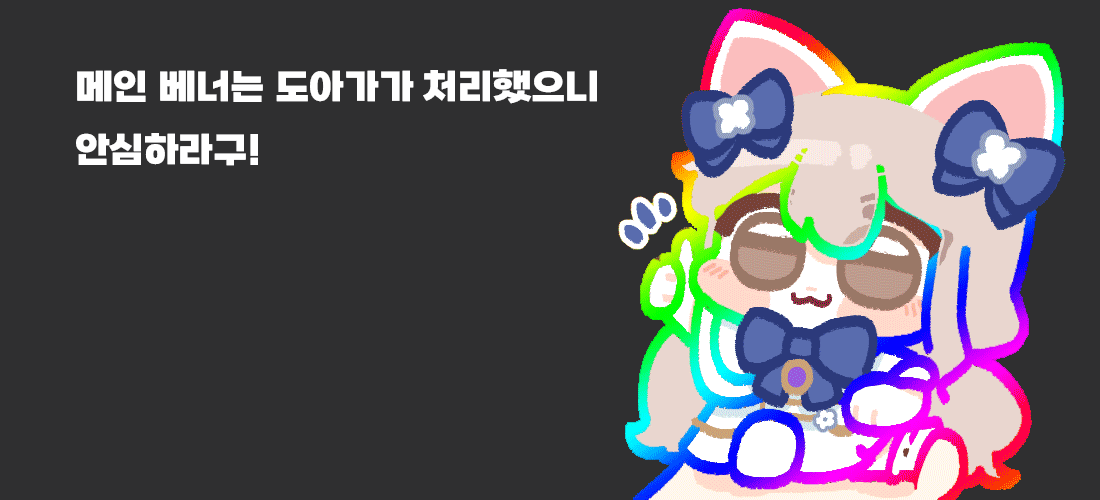
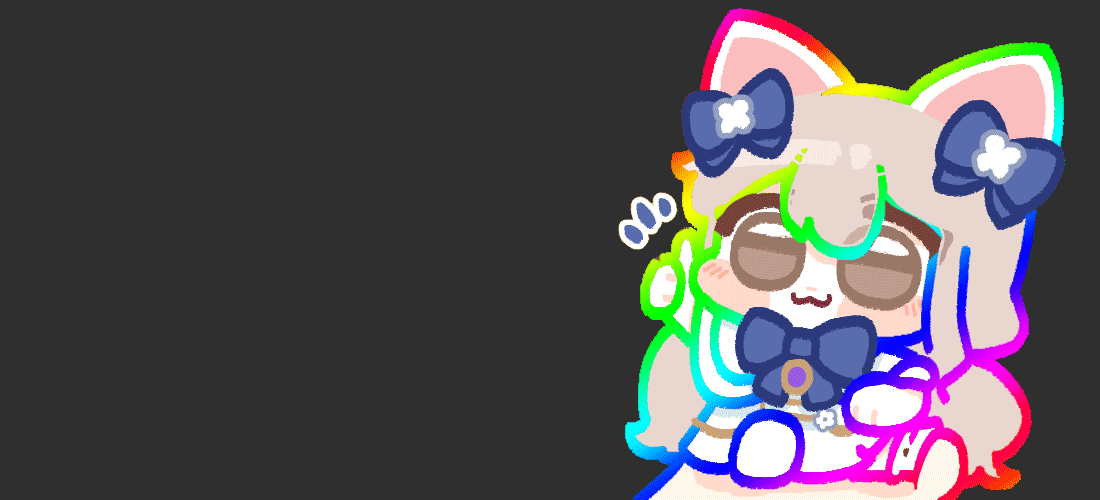
게시판 관련 UI 수정 및 메인 페이지 디자인 수정

Changed region(s): [[0.0618, 0.12, 0.5564, 0.21], [0.0618, 0.27, 0.2473, 0.33]]

diff --git a/src/pages/Main copy.jsx b/src/pages/Main copy.jsx
@@ -1,0 +1,129 @@
+import React from 'react';
+import styled from "styled-components";
+import { NavLink, useNavigate } from 'react-router-dom';
+import SidebarItem from '../Component/NavItem';
+import sampleimg from "../images/samplebanner.png";
+
+const BodyContent = styled.div`
+  width: 100%;
+  display: flex;
+  flex-direction: column;
+`
+
+const Menu = styled.div`
+  margin: auto;
+  display: flex;
+  flex-direction: row;
+`
+
+const Testdiv = styled.div`
+  height: 500px;
+`
+
+const Banner = styled.div`
+  width: 100%;
+  height: 100%;
+  background-size: cover;
+  background-position: center;
+  margin: 20px auto;
+  background-image: url(${sampleimg});
+  display: flex;
+  flex-direction: column;
+  justify-content: center;
+  align-items: flex-start;
+  padding: 20px;
+  color: white;
+  position: relative;
+
+  &::before,
+  &::after {
+    content: "";
+    position: absolute;
+    top: 0;
+    bottom: 0;
+    width: 20px;
+    background-color: #2f2f30;
+    z-index: -1;
+  }
+
+  &::before {
+    left: -20px;
+  }
+
+  &::after {
+    right: -20px;
+  }
+`
+
+const Title = styled.h1`
+  font-size: 64px;
+  margin-bottom: 10px;
+`
+
+const Description = styled.p`
+  font-size: 24px;
+  margin-bottom: 20px;
+`
+
+const Button = styled.button`
+  padding: 10px 20px;
+  background-color: #f0f0f0;
+  color: 333;
+  border: none;
+  border-radius: 5px;
+  cursor: pointer;
+  transition: background-color 0.3s ease;
+
+  &:hover {
+    color: white;
+    background-color: #555;
+  }
+`
+
+const Main = () => {
+  const navigate = useNavigate();
+  const menus = [
+    { name: "게시판", path: "/board" },
+    { name: "로그인", path: "/login" },
+    { name: "회원가입", path: "/signup" },
+    { name: "404 페이지", path: "/*" }
+  ];
+
+  const handleCreateBoardClick = () => {
+    navigate(`/board`);
+  };
+
+  return (
+    <>
+      <BodyContent>
+        <Testdiv>
+          <Banner>
+            <Title>캡스톤디자인</Title>
+            <Description>메인페이지는 도아가가 처리했으니 안심하라구!</Description>
+            <Button onClick={handleCreateBoardClick}>게시판으로</Button>
+          </Banner>
+        </Testdiv>
+      </BodyContent>
+    </>
+  );
+};
+
+export default Main;
+
+	{/*
+        <Menu>
+          {menus.map((menu, index) => {
+            return (
+              <NavLink
+                exact
+                style={{ color: "Black", textDecoration: "none", margin: "10px" }}
+                to={menu.path}
+                key={index}
+                activeStyle={{ color: "black" }}
+              >
+                <SidebarItem menu={menu} />
+              </NavLink>
+            );
+          })}
+        </Menu>
+	*/}

diff --git a/src/pages/Main.jsx b/src/pages/Main.jsx
@@ -1,6 +1,6 @@
 import React from 'react';
 import styled from "styled-components";
-import { NavLink } from 'react-router-dom';
+import { NavLink, useNavigate } from 'react-router-dom';
 import SidebarItem from '../Component/NavItem';
 import sampleimg from "../images/samplebanner.png";
 
@@ -10,48 +10,82 @@ const BodyContent = styled.div`
   flex-direction: column;
 `
 
-const Menu = styled.div`
-  margin: auto;
-  display: flex;
-  flex-direction: row;
+const Title = styled.h1`
+  font-size: 64px;
+  margin-bottom: 10px;
 `
+
+const Description = styled.p`
+  font-size: 24px;
+  margin-bottom: 20px;
+`
+
+const Button = styled.button`
+  padding: 10px 20px;
+  background-color: #f0f0f0;
+  color: 333;
+  border: none;
+  border-radius: 5px;
+  cursor: pointer;
+  transition: background-color 0.3s ease;
+
+  &:hover {
+    color: white;
+    background-color: #555;
+  }
+`
+
 
 const Banner = styled.div`
   width: 100%;
-  height: 500px;
+  height: 100%;
   background-size: cover;
   background-position: center;
   margin: 20px auto;
   background-image: url(${sampleimg});
+  display: flex;
+  flex-direction: column;
+  justify-content: center;
+  align-items: flex-start;
+  padding: 20px;
+  color: white;
+  position: relative;
+
+  &::before,
+  &::after {
+    content: "";
+    position: absolute;
+    top: 0;
+    bottom: 0;
+    width: 20px;
+    background-color: #2f2f30;
+    z-index: -1;
+  }
+
+  &::before {
+    left: -20px;
+  }
+
+  &::after {
+    right: -20px;
+  }
 `
 
-const Main = (props) => {
-  const menus = [
-    { name: "게시판", path: "/board" },
-    { name: "로그인", path: "/login" },
-    { name: "회원가입", path: "/signup" },
-    { name: "404 페이지", path: "/*" }
-  ];
+const Main = () => {
+  const navigate = useNavigate();
+
+  const handleMoveBoardClick = () => {
+    navigate(`/board`);
+  };
 
   return (
     <>
       <BodyContent>
-        <Banner />
-        <Menu>
-          {menus.map((menu, index) => {
-            return (
-              <NavLink
-                exact
-                style={{ color: "Black", textDecoration: "none", margin: "10px" }}
-                to={menu.path}
-                key={index}
-                activeStyle={{ color: "black" }}
-              >
-                <SidebarItem menu={menu} />
-              </NavLink>
-            );
-          })}
-        </Menu>
+          <Banner>
+            <Title>캡스톤디자인</Title>
+            <Description>메인페이지는 도아가가 처리했으니 안심하라구!</Description>
+            <Button onClick={handleMoveBoardClick}>게시판으로</Button>
+          </Banner>
       </BodyContent>
     </>
   );

diff --git a/src/pages/Detail.jsx b/src/pages/Detail.jsx
@@ -17,15 +17,27 @@ const HeadContainer = styled.div`
 const ButtonContainer = styled.div`
   margin-left: auto;
 `
+const BoardItem = styled.div`
+margin-bottom: 10px;
+padding: 10px;
+height: fit-content;
+background-color: #f0f0f0;
+border-radius: 5px;
+cursor: pointer;
+`
 
 const Title = styled.h1`
   margin-bottom: 10px;
   text-align: left;
+  font-size: 24px;
+  color: #333;
 `
 
-const Content = styled.h3`
+const Content = styled.p`
   margin-bottom: 20px;
   text-align: left;
+  font-size: 18px;
+  color: #666;
 `
 
 const LinkButton = styled(Link)`
@@ -101,14 +113,17 @@ const Detail = () => {
   return (
     <Container>
       <HeadContainer>
-        <Title>{title}</Title>
+          <Title>{title}</Title>
         <ButtonContainer>
           <LinkButton to={`/updatepost`} state={{ id: id, title: title, content: content }}>수정</LinkButton>
           <DeleteButton to="/board" onClick={handleDeleteBtnClick}>삭제</DeleteButton>
           <LinkButton to={"/board"} state={{}}>목록 보기</LinkButton>
         </ButtonContainer>
       </HeadContainer>
-      <Content>{content}</Content>
+      <BoardItem>
+        <Content>{content}</Content>     
+      </BoardItem>
+
     </Container>
   );
 };
